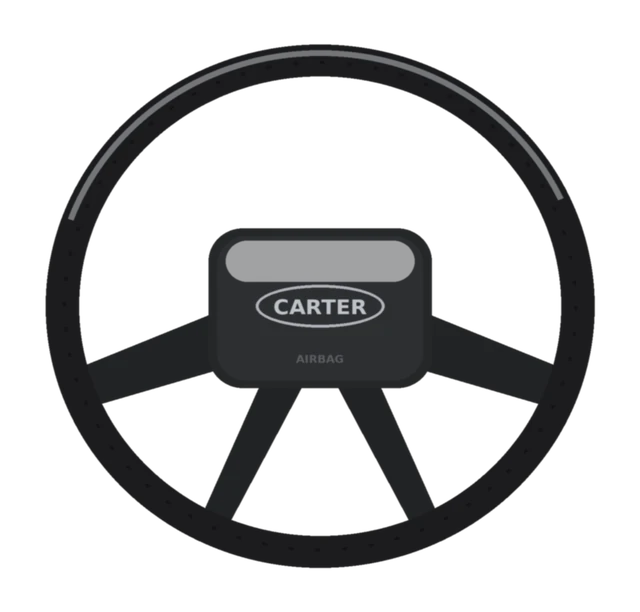
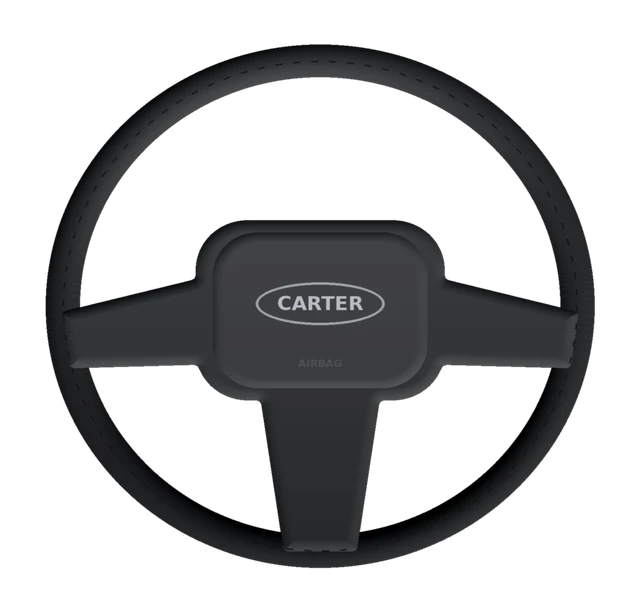
Carter: nuovo volante a tre razze; menu: Regole -> Realismo, opzioni in verticale
Claude-Session: https://claude.ai/code/session_01W8iG7LND3boGmKpCt1qQnk

diff --git a/index.html b/index.html
@@ -118,6 +118,7 @@
   .veh button.sel{border-color:var(--red);background:#fff1ef;box-shadow:0 3px 0 var(--red)}
   .row{display:flex;flex-wrap:wrap;gap:10px 14px;align-items:center;margin:6px 0;font-size:14px}
   .row label{display:flex;align-items:center;gap:6px;font-weight:600}
+  .row.col{flex-direction:column;align-items:flex-start;gap:8px}
   #menu select,#menu input[type=password],#menu input:not([type]){background:#fff;color:var(--ink);border:2px solid var(--line);border-radius:10px;padding:6px 8px;font:600 14px Nunito,sans-serif}
   #menu input[type=range]{accent-color:var(--red)}#menu input[type=checkbox]{accent-color:var(--red);width:18px;height:18px}
   #menu .sm{background:#fff;color:var(--wine);border:2px solid var(--line);border-radius:10px;padding:6px 12px;font:700 13px Nunito,sans-serif}
@@ -357,8 +358,8 @@
   <div class="mgrid tabp on" data-t="gioco">
     <section class="card span modes"><h2>Modalità di gioco</h2><div class="modeGrid" id="modeGrid"><button class="mode" data-m="free"><i>🚗</i><b>Guida libera</b><span>Gira per Valdonia senza meta</span></button><button class="mode" data-m="nav"><i>🧭</i><b>Da A a B</b><span>Il navigatore ti porta a destinazione</span></button><button class="mode" data-m="race"><i>🏁</i><b>Gara</b><span>Sfida il computer fino al traguardo</span></button><button class="mode" data-m="deliv"><i>📦</i><b>Consegne a tempo</b><span>Porta i pacchi prima che scada il tempo</span></button><button class="mode" data-m="ring"><i>⏱</i><b>Giro dell'anello</b><span>Un giro dell'autostrada a cronometro</span></button><button class="mode" data-m="taxi"><i>🚕</i><b>Tassista</b><span>Turno col taxi: carica i clienti che fanno segno</span></button><button class="mode" data-m="career"><i>💼</i><b>Carriera</b><span>Lavori, soldi e garage</span></button></div><div style="display:none"><select id="selMode"><option value="free">Guida libera</option><option value="nav">Da A a B col navigatore</option><option value="race">Gara contro il computer</option><option value="deliv">Sfida: consegne a tempo</option><option value="ring">Sfida: giro dell'anello a cronometro</option><option value="taxi">Tassista: turno di taxi</option><option value="career">Carriera: lavori, soldi e garage</option></select></div>
       <div class="row" id="lbView"></div></section>
-    <section class="card span"><h2>Regole</h2>
-      <div class="row"><label>Profilo di guida <select id="selAids"><option value="2">Facile</option><option value="1">Normale</option><option value="0">Realistico</option></select></label><label>Polizia <select id="selPol"><option value="tutto">Multe e pattuglie</option><option value="rara">Pattuglie rare</option><option value="multe">Solo multe</option><option value="no">Nessuna</option></select></label><label>Traffico <select id="selTraf"><option value="0">Nessuno</option><option value="0.5">Poco</option><option value="1">Normale</option><option value="1.7">Tanto</option></select></label><label>Carburante <select id="selFuel"><option value="0">Infinito</option><option value="1">Consumo realistico</option><option value="2">Consumo arcade (×6)</option></select></label></div>
+    <section class="card span"><h2>Realismo</h2>
+      <div class="row col"><label>Profilo di guida <select id="selAids"><option value="2">Facile</option><option value="1">Normale</option><option value="0">Realistico</option></select></label><label>Polizia <select id="selPol"><option value="tutto">Multe e pattuglie</option><option value="rara">Pattuglie rare</option><option value="multe">Solo multe</option><option value="no">Nessuna</option></select></label><label>Traffico <select id="selTraf"><option value="0">Nessuno</option><option value="0.5">Poco</option><option value="1">Normale</option><option value="1.7">Tanto</option></select></label><label>Carburante <select id="selFuel"><option value="0">Infinito</option><option value="1">Consumo realistico</option><option value="2">Consumo arcade (×6)</option></select></label></div>
     </section>
   </div>
   <div class="mgrid tabp" data-t="part">
@@ -413,7 +414,7 @@
   </div>
   <div class="mgrid tabp" data-t="cart"><section class="card span"><h2>Foto e clip</h2><p class="note">Tasto O (o il pulsante Foto) per scattare, J per registrare una clip: finiscono qui. Tocca per ingrandire e salvare.</p><div id="mediaAlbum" class="pcGrid"></div></section></div>
 <div id="lbx"><div class="in"><div class="media"></div><div class="cap"></div><div class="bt"><button id="lbxSave">⬇ Salva</button><button id="lbxDel" class="sm">Elimina</button><button id="lbxClose" class="sm">Chiudi</button></div></div></div>
-  <div class="mgrid tabp" data-t="info"><section class="card span sup"><h2>♥ Supporta Guido !</h2><p>Guido è gratis e senza pubblicità. Se ti diverte, offrici da bere !</p><a class="supBtn" href="https://buy.stripe.com/eVqaEZanK0EKcA38ZcejK01" target="_blank" rel="noopener">🍹 Offrici da bere</a></section><div style="text-align:center;font-size:12px;color:#8a9099;margin:-4px 0 6px" class="span">Versione 81</div><section class="card span credBox"><div class="row" style="padding:12px 16px 0;justify-content:center"><button id="instBtn" class="sm" style="display:none">📲 Installa sul telefono</button></div><div class="credWin" id="credWin"><div class="credRoll" id="credRoll">
+  <div class="mgrid tabp" data-t="info"><section class="card span sup"><h2>♥ Supporta Guido !</h2><p>Guido è gratis e senza pubblicità. Se ti diverte, offrici da bere !</p><a class="supBtn" href="https://buy.stripe.com/eVqaEZanK0EKcA38ZcejK01" target="_blank" rel="noopener">🍹 Offrici da bere</a></section><div style="text-align:center;font-size:12px;color:#8a9099;margin:-4px 0 6px" class="span">Versione 82</div><section class="card span credBox"><div class="row" style="padding:12px 16px 0;justify-content:center"><button id="instBtn" class="sm" style="display:none">📲 Installa sul telefono</button></div><div class="credWin" id="credWin"><div class="credRoll" id="credRoll">
 <div class="studio"><img src="img/logo_plate.webp" alt="Guido"><div><div class="by">Un gioco realizzato da</div><div class="st">HOPTHOP STUDIO</div><div class="yr">© 2026 · ideazione, programmazione, mondo di Valdonia</div></div></div>
 <h2 style="margin:0 0 8px">Crediti dei modelli 3D</h2><p style="opacity:.8;margin:0 0 10px">Modelli scaricati da Sketchfab, usati con licenza Creative Commons Attribution 4.0 (CC BY 4.0) salvo dove indicato. Sono stati ridotti e ottimizzati per il browser.</p>
 <ul style="padding-left:18px;margin:0">

diff --git a/sw.js b/sw.js
@@ -1,6 +1,6 @@
 // Guido: service worker. Il gioco si installa come app; i file del gioco arrivano dalla rete quando c'è,
 // altrimenti dalla copia salvata, così parte anche offline. Le librerie dai CDN restano in cache.
-const V = 'guido-v81';
+const V = 'guido-v82';
 const CORE = ['./', './index.html', './manifest.webmanifest', './icons/icon-192.png', './icons/icon-512.png', './icons/favicon-32.png', './img/logo_plate.webp'];
 self.addEventListener('install', e => { self.skipWaiting(); e.waitUntil(caches.open(V).then(c => c.addAll(CORE)).catch(() => {})); });
 self.addEventListener('activate', e => { e.waitUntil(caches.keys().then(k => Promise.all(k.filter(x => x !== V).map(x => caches.delete(x)))).then(() => self.clients.claim())); });
